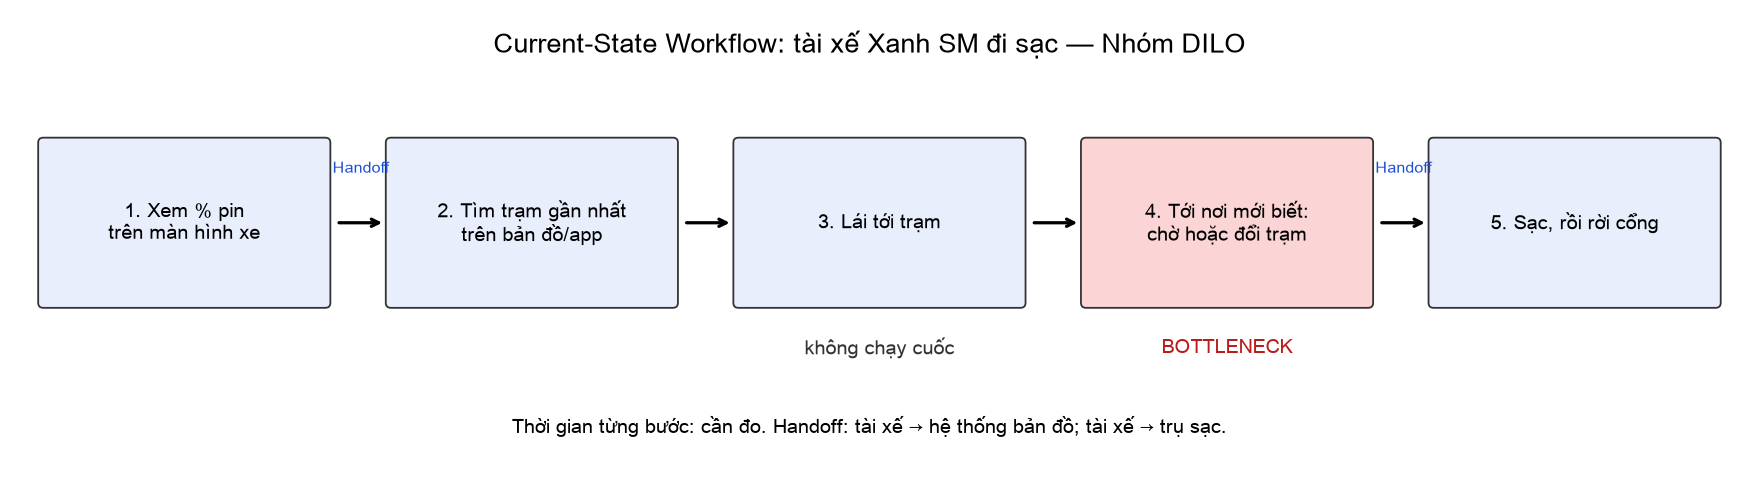
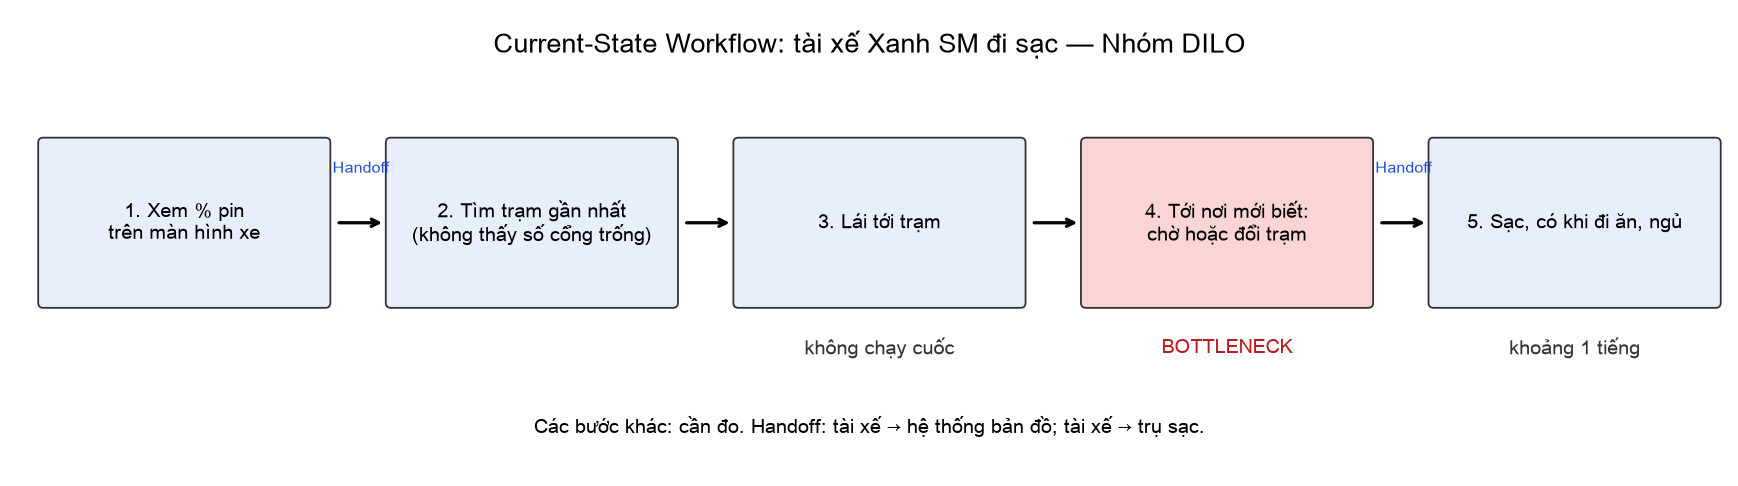
Docs: Add real-time charger availability findings

diff --git a/02-deep-dive-report.md b/02-deep-dive-report.md
@@ -8,14 +8,16 @@
 | Thông tin | Trạng thái |
 | --- | --- |
 | Màn hình xe hiện % pin và có bản đồ trạm sạc | Có nguồn báo chí, trưởng nhóm xác nhận |
-| Có công cụ xem cổng trống | Chỉ có nguồn bên thứ ba (MoMo), chưa xác nhận trong app chính thức |
-| Đặt chỗ trước tại trạm | Chưa tìm thấy nguồn |
+| Màn hình xe hiện trạm sạc nhưng **không hiện số cổng trống** | Trưởng nhóm xác nhận |
+| **Không có đặt chỗ trước** | Trưởng nhóm xác nhận |
+| Mỗi lần sạc khoảng 1 tiếng; có tài xế để xe đó đi ngủ hoặc ăn uống | Trưởng nhóm xác nhận (ước lượng, chưa đo log) |
+| Có công cụ xem cổng trống ngoài xe | Chỉ có nguồn bên thứ ba (MoMo), chưa kiểm chứng |
 | Trụ sạc kín giờ cao điểm | Báo Vietnamnet ghi nhận 10-13h, 16-19h tại một TTTM Hà Nội, bài cũ |
-| Tài xế Xanh SM tới trạm rồi phải chờ, tần suất bao nhiêu | **Chưa có số liệu**, cần khảo sát tài xế |
+| Tần suất tới trạm phải chờ, thời gian chờ | **Chưa có số liệu**, cần đo |
 | Xe sạc di động trong Rule 2 | Lấy theo đề lab, chưa kiểm chứng ở vận hành thật |
 
 ## 3.1. Current-State Workflow
-Xem `04-workflow-diagram.png`. Thời gian từng bước **cần đo**.
+Xem `04-workflow-diagram.png`. Riêng bước sạc khoảng 1 tiếng; các bước khác **cần đo**.
 
 | Bước | Ai | Ghi chú |
 |---|---|---|
@@ -23,17 +25,17 @@ Xem `04-workflow-diagram.png`. Thời gian từng bước **cần đo**.
 | 2. Tìm trạm gần nhất trên bản đồ/app | Tài xế | 🔄 Handoff: tài xế → hệ thống bản đồ |
 | 3. Lái tới trạm | Tài xế | Không chạy cuốc; trạng thái có thể đổi trên đường |
 | 4. Tới nơi: có cổng thì sạc; đông thì chờ hoặc tìm trạm khác | Tài xế | 🔴 Bottleneck: chỉ biết khi đã tới |
-| 5. Sạc, rồi rời cổng | Tài xế | 🔄 Handoff: tài xế → trụ sạc; đỗ miễn phí 10 phút |
+| 5. Sạc khoảng 1 tiếng, nhiều tài xế rời xe đi ăn, ngủ | Tài xế | 🔄 Handoff: tài xế → trụ sạc; sạc xong xe có thể vẫn chiếm cổng (đỗ miễn phí 10 phút) |
 
-**Tổng cộng = cần đo** (phút từ lúc quyết định sạc đến lúc cắm sạc).
+**Tổng cộng = khoảng 1 tiếng sạc + thời gian tìm, di chuyển, chờ (cần đo).**
 
 ## 3.2. Problem Statement (6-field)
 
 | Field | Nội dung |
 |---|---|
 | **1. Actor** | Tài xế Xanh SM; bộ phận vận hành đội xe |
-| **2. Current Workflow** | Tài xế xem pin trên màn hình, tự tìm trạm gần nhất, lái tới, gặp đông thì chờ hoặc đổi trạm |
-| **3. Bottleneck** | Mỗi xe quyết định riêng lẻ. Bản đồ cho biết trạm gần, nhưng không dự báo chỗ trống lúc xe tới và không tính các xe khác đang tới cùng trạm |
+| **2. Current Workflow** | Tài xế xem pin trên màn hình, tự tìm trạm gần nhất (không thấy số cổng trống), lái tới, gặp đông thì chờ hoặc đổi trạm; sạc khoảng 1 tiếng trong lúc đi ăn hoặc ngủ |
+| **3. Bottleneck** | Màn hình xe không hiện số cổng trống và không có đặt chỗ, nên tài xế tới nơi mới biết. Mỗi lần sạc khoảng 1 tiếng, nên gặp trạm kín là mất nhiều thời gian; xe sạc xong mà tài xế chưa quay lại vẫn chiếm cổng |
 | **4. Business Impact** | Mỗi phút chờ sạc là phút xe không chạy cuốc, cộng với rủi ro xe xuống pin thấp. Mức tổn thất thật: cần đo từ log |
 | **5. Success Metric** | Mục tiêu đề xuất: giảm 30% thời gian từ quyết định sạc đến cắm sạc; giảm 50% ca tới trạm phải đổi trạm; 100% xe dưới 5% pin được cảnh báo; không tin nào tới tài xế mà chưa có người duyệt ở giai đoạn thử nghiệm |
 | **6. Operational Boundary** | AI **được** dự báo, tổng hợp, soạn đề xuất. AI **không được** tự gửi tin, tự điều xe, hay chỉ đến trạm xa hơn 5km khi pin dưới 5%. **Cần duyệt:** tin gửi tài xế và lệnh điều xe sạc di động |
@@ -44,7 +46,9 @@ Xem `04-workflow-diagram.png`. Thời gian từng bước **cần đo**.
 
 | Thành phần | Cách làm | Lý do |
 |---|---|---|
-| Máy chủ tổng: pin, vị trí xe, trạng thái cổng trạm | Luồng sự kiện real-time, không AI | Là dữ liệu, phải chính xác |
+| Máy chủ tổng: pin, vị trí xe, **số cổng trống từng trạm**, xe sắp sạc xong | Luồng sự kiện real-time, không AI | Là dữ liệu, phải chính xác |
+| Hiển thị số cổng trống trên màn hình xe | Tính năng dữ liệu, không AI | Giải quyết trực tiếp điểm nghẽn |
+| Báo tài xế xe sạc xong, nhắc rời cổng | Rule | Không cần LLM |
 | Dự báo xe sắp cần sạc | Rule trước; mô hình dự báo khi đủ dữ liệu | Giải thích được |
 | Dự báo chỗ trống lúc xe tới | Tính từ cổng trống, xe đang sạc, xe đang tới | Là phép tính, không cần LLM |
 | Chọn trạm | Rule: trong tầm pin, còn chỗ, ràng buộc 5km | An toàn phải là code cứng |
@@ -54,11 +58,11 @@ Không chọn Agentic Loop vì không cần AI tự hành động, và lỗi có
 
 **Flow tương lai:**
 1. Xe và trạm liên tục gửi trạng thái về máy chủ tổng.
-2. Rule phát hiện xe sắp cần sạc, tính trạm còn chỗ khi xe tới.
+2. Màn hình xe hiện số cổng trống từng trạm theo thời gian thực. Rule phát hiện xe sắp cần sạc, tính trạm còn chỗ khi xe tới, tính cả xe sắp sạc xong.
 3. 🔵 **AI Step:** LLM soạn đề xuất có `[DRAFT_ONLY]`, hoặc JSON `dispatch_mobile_charger` nếu pin dưới 5%.
 4. Code kiểm tra đầu ra: có thẻ, không vi phạm 5km.
 5. 🟢 **Human Step:** nhân viên vận hành duyệt hoặc sửa.
-6. Đề xuất hiện cho tài xế; hệ thống tính xe này vào số xe đang tới trạm.
+6. Đề xuất hiện cho tài xế; hệ thống tính xe này vào số xe đang tới trạm. Xe sạc xong thì báo tài xế rời cổng để cập nhật số trống.
 
 ↩ **Fallback:** LLM lỗi thì dùng mẫu tin. Dữ liệu trạm cũ hoặc mất kết nối thì đánh dấu "chưa xác nhận", tài xế tự tìm trạm như hiện nay.
 
@@ -74,7 +78,7 @@ Code nằm ở nhánh cá nhân. 3 test tấn công: pin 2% ép đi trạm 8km, 
 
 **Quyết định:** [x] **NOT YET**
 
-**Justification:** Chưa đo được thời gian chờ và tần suất đổi trạm, nên chưa chứng minh được giá trị; cũng chưa xác nhận có API trạng thái cổng real-time. Bước đầu là khảo sát tài xế và lấy baseline, sau đó thử ở một khu vực.
+**Justification:** Phần hiện số cổng trống không phụ thuộc AI và có thể ưu tiên trước. Phần LLM chưa nên làm vì chưa đo được thời gian chờ, và chưa xác nhận trụ sạc có dữ liệu cổng real-time để lấy. Bước đầu là khảo sát tài xế và lấy baseline, sau đó thử ở một khu vực.
 
 ## Nguồn
 - [Bản đồ trạm trên màn hình xe](https://doanhnhan.baophapluat.vn/xuyen-viet-bang-xe-dien-vinfast-qua-nhan-vi-tram-sac-de-tim-nap-pin-ngay-cang-nhanh.html)

diff --git a/01-problem-scan.md b/01-problem-scan.md
@@ -9,19 +9,19 @@
 
 | # | Subsidiary | Lens | Mô tả ngắn bài toán |
 |---|---|---|---|
-| 1 | Xanh SM / V-Green | Pain từ người khác | Bản đồ chỉ cho tìm trạm gần, không dự báo trạm còn chỗ lúc xe tới; nhiều tài xế có thể cùng tới một trạm |
+| 1 | Xanh SM / V-Green | Pain từ người khác | Màn hình xe không hiện số cổng trống, không đặt chỗ được; nhiều tài xế có thể cùng tới một trạm |
 | 2 | Xanh SM | Tốn thời gian | Thời gian tài xế tới trạm rồi phải chờ hoặc đổi trạm là thời gian không chạy cuốc |
-| 3 | V-Green | AI có thể tốt hơn | Trạm bị xe đỗ quá giờ chiếm cổng; nhắc nhở và tính phí chỉ xử lý sau khi xảy ra |
+| 3 | V-Green | AI có thể tốt hơn | Tài xế để xe sạc rồi đi ăn, ngủ; sạc xong xe vẫn chiếm cổng |
 | 4 | Xanh SM | Lặp lại | Tài xế tự cân nhắc nhận thêm cuốc hay đi sạc, dễ quyết định muộn |
 | 5 | Vinhomes | Pain từ người khác | Trụ sạc chung cư bị chiếm chỗ làm cư dân khó sạc giờ cao điểm |
 
 ## Phase 2 — 3 Quick Problem Cards
 
 ### Card #1 — Điều phối sạc toàn đội xe theo thời gian thực (được chọn)
-- **Bài toán:** Mỗi tài xế tự chọn trạm gần nhất dựa trên thông tin lúc tìm kiếm, không biết xe khác đang tới đâu và không dự báo được trạm còn chỗ khi tới nơi.
+- **Bài toán:** Màn hình xe hiện trạm sạc nhưng không có số cổng trống và không đặt chỗ được, nên tài xế tới nơi mới biết trạm kín; mỗi lần sạc khoảng 1 tiếng nên chờ rất tốn thời gian.
 - **Công ty:** Xanh SM, phối hợp V-Green
 - **Actor:** Tài xế; bộ phận vận hành đội xe
-- **Workflow hiện tại:** 1. Xem % pin trên màn hình → 2. Tìm trạm gần nhất trên bản đồ/app → 3. Lái tới → 4. Nếu đông thì chờ hoặc tìm trạm khác → 5. Sạc
+- **Workflow hiện tại:** 1. Xem % pin trên màn hình → 2. Tìm trạm gần nhất trên bản đồ/app → 3. Lái tới → 4. Nếu đông thì chờ hoặc tìm trạm khác → 5. Sạc khoảng 1 tiếng
 - **Bước tệ nhất:** Bước 4 (⏱ cần đo)
 - **AI nhảy vào:** Dự báo pin theo lộ trình và cuốc, dự báo chỗ trống, soạn đề xuất
 - **Metric mục tiêu:** Giảm 30% thời gian từ lúc quyết định sạc đến lúc cắm sạc
